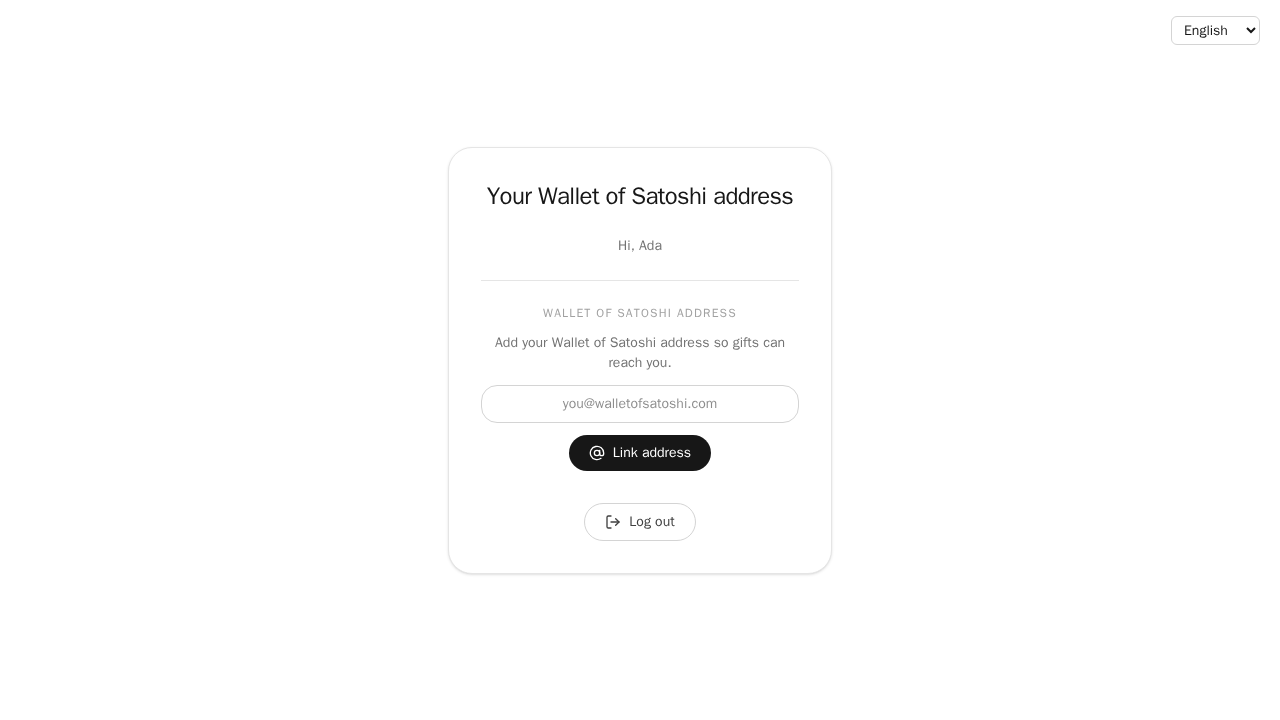
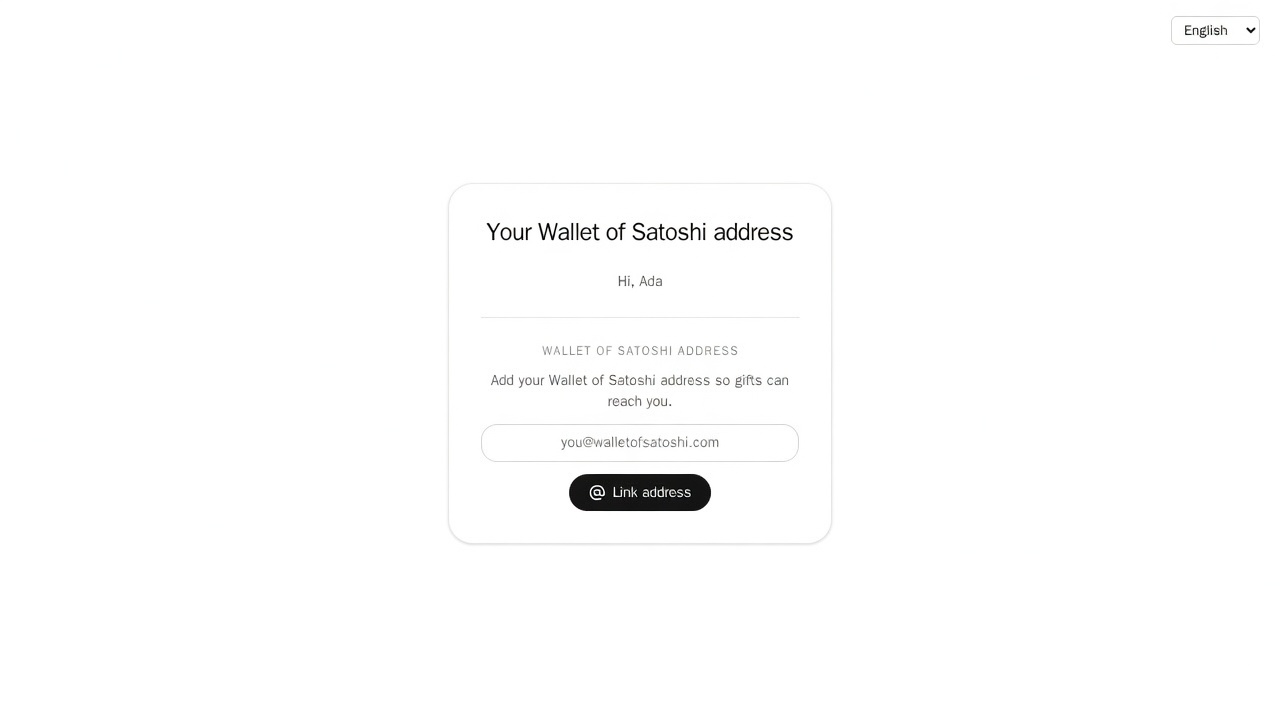
Remove log out from the address setup screen
Asking for a Wallet of Satoshi address with a log-out control on the same
card is confusing. Log out stays on the name and welcome screens.

Changed region(s): [[0.375, 0.4278, 0.625, 0.7333], [0.375, 0.2444, 0.625, 0.3972], [0.9375, 0.0306, 0.9688, 0.0611]]

diff --git a/src/components/AddressSetup.tsx b/src/components/AddressSetup.tsx
@@ -1,13 +1,12 @@
 'use client';
 
 import type { ReactElement } from 'react';
-import { LogoutButton } from '@/components/LogoutButton';
 import { LightningAddressForm } from '@/components/LightningAddressForm';
 import { useTranslations } from '@/components/LocaleProvider';
 import { useAuthStore } from '@/stores/auth-store';
 
 /**
- * The second post-login screen: ask for a Wallet of Satoshi address.
+ * The second post-login screen: ask for a Wallet of Satoshi address. No log out.
  *
  * @returns The address setup card.
  */
@@ -23,7 +22,6 @@ export function AddressSetup(): ReactElement {
         <p className="text-sm text-neutral-500">{t('login.helloName', { name: name.trim() })}</p>
       ) : null}
       <LightningAddressForm />
-      <LogoutButton />
     </section>
   );
 }

diff --git a/e2e/functions.spec.ts b/e2e/functions.spec.ts
@@ -1003,6 +1003,7 @@ test('Function: AddressSetup — address screen heading is visible', async ({ pa
   });
   await page.goto('/setup/address');
   await expect(page.getByRole('heading', { name: 'Your Wallet of Satoshi address' })).toBeVisible();
+  await expect(page.getByRole('button', { name: 'Log out' })).toHaveCount(0);
 });
 
 test('Function: WelcomePage — welcome heading is visible', async ({ page }) => {

diff --git a/src/__tests__/components/AddressSetup.test.tsx b/src/__tests__/components/AddressSetup.test.tsx
@@ -49,6 +49,7 @@ describe('AddressSetup', () => {
     expect(screen.getByText('Hi, Ada')).toBeTruthy();
     expect(screen.getByRole('button', { name: /link address/i })).toBeTruthy();
     expect(screen.queryByRole('button', { name: /save name/i })).toBeNull();
+    expect(screen.queryByRole('button', { name: /log out/i })).toBeNull();
   });
 
   it('omits the greeting when the store has no name', () => {

diff --git a/docs/handbook/screens.md b/docs/handbook/screens.md
@@ -142,13 +142,13 @@ Signed in, no name yet. **Your name**, **Save name**, **Log out**.
 ## Screen: /setup/address
 
 - **URL:** `/setup/address` — second screen after login.
-- **What the user sees:** Light language switcher. Heading **Your Wallet of Satoshi address**, greeting **Hi, {name}**, address form, **Log out**. No name form.
-- **Actions:** Link an address, log out, change language. After save, the visitor is sent to `/welcome`.
-- **Calls:** `AddressSetup`, `LightningAddressForm`, `LogoutButton`, `OnboardingGate`, `LanguageSwitcher`.
+- **What the user sees:** Light language switcher. Heading **Your Wallet of Satoshi address**, greeting **Hi, {name}**, address form. No name form. No **Log out**.
+- **Actions:** Link an address, change language. After save, the visitor is sent to `/welcome`.
+- **Calls:** `AddressSetup`, `LightningAddressForm`, `OnboardingGate`, `LanguageSwitcher`.
 
 ### Variant: default
 
-Signed in with a name and no address. **Your Wallet of Satoshi address**, **Link address**, **Log out**.
+Signed in with a name and no address. **Your Wallet of Satoshi address**, **Link address**. No **Log out**.
 
 ![21.gifts address setup](images/setup-address.png)
 

diff --git a/docs/handbook/functions.md b/docs/handbook/functions.md
@@ -164,9 +164,9 @@
 
 ## Function: AddressSetup
 
-- **Purpose:** Second post-login screen: Wallet of Satoshi address form after the name is saved.
+- **Purpose:** Second post-login screen: Wallet of Satoshi address form after the name is saved. No log out.
 - **Inputs:** Reads `account.name` from `useAuthStore` for the greeting.
-- **Returns / side effects:** Card with heading **Your Wallet of Satoshi address**, `LightningAddressForm`, and `LogoutButton`.
+- **Returns / side effects:** Card with heading **Your Wallet of Satoshi address** and `LightningAddressForm`. No `LogoutButton`.
 - **Used by:** Screen `/setup/address`.
 
 ## Function: AddressSetupPage
@@ -181,7 +181,7 @@
 - **Purpose:** Logs the visitor out and returns them to `/login`.
 - **Inputs:** `useAuthStore.clearAuth`, `usePasskeyLogin.cancel`, `useRouter`.
 - **Returns / side effects:** Button. Clears the session and `router.replace('/login')`.
-- **Used by:** `NameSetup`, `AddressSetup`, `WelcomeScreen`.
+- **Used by:** `NameSetup`, `WelcomeScreen`.
 
 ## Function: NameSetup
 
